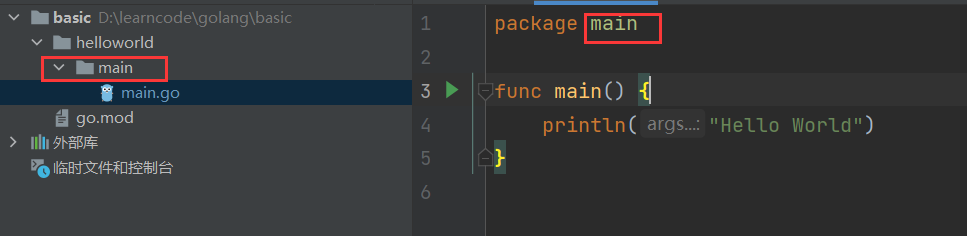
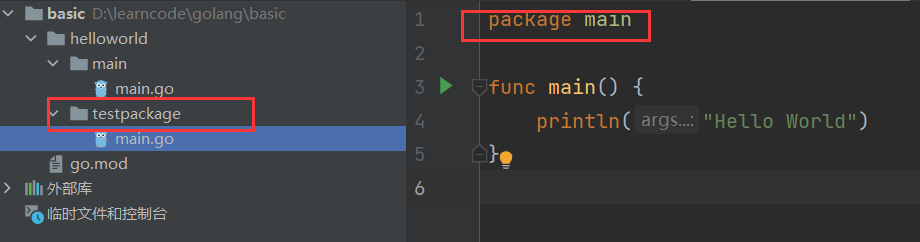
update

diff --git a/docs/golang/05 可访问性.md b/docs/golang/05 可访问性.md
@@ -1,0 +1,59 @@
+---
+sidebarDepth: 3
+sidebar: auto
+prev:
+  text: Back To 目录
+  link: /golang/
+typora-root-url: ..\.vuepress\public
+---
+
+
+
+## 全局变量
+
+::: tip
+
+首字符是否大写控制了访问性：大写包 外可访问；
+
+:::
+
+```go
+// test/main.go
+package main
+
+import varia "basic/variables"
+
+func main() {
+	println(varia.External)
+	// 不可访问
+	//println(varia.internal)
+}
+
+```
+
+![image-20220615030704902](/images/golang/image-20220615030704902.png)
+
+
+
+## 全局方法
+
+
+
+```go
+package main
+
+import "basic/variables"
+
+func main() {
+	variables.Func2()
+}
+```
+
+![image-20220615031735768](/images/golang/image-20220615031735768.png)
+
+```go
+var Func2 = func() {
+	println("func2")
+}
+```
+

diff --git a/docs/golang/04 字符串.md b/docs/golang/04 字符串.md
@@ -1,0 +1,38 @@
+---
+sidebarDepth: 3
+sidebar: auto
+prev:
+  text: Back To 目录
+  link: /golang/
+typora-root-url: ..\.vuepress\public
+---
+
+
+
+## 字符串长度
+
+::: tip
+
+遇到计算字符个数，比如说用户名字多长，博客多长这种字符个数,用 **utf8.RuneCountInString**
+
+:::
+
+
+
+```go
+package main
+
+import "unicode/utf8"
+
+func main() {
+	// 反引号
+	println(`First Line
+			Another line.`)
+
+	println(len("静默"))                       // 6
+	println(utf8.RuneCountInString("静默"))    // 2
+	println(utf8.RuneCountInString("Hi 静默")) // 5
+}
+
+```
+

diff --git a/docs/golang/02 Hello World.md b/docs/golang/02 Hello World.md
@@ -17,7 +17,13 @@ func main() {
 }
 ```
 
-![image-20220615022542611](/images/golang/image-20220615022542611.png)
+::: tip
+
+可以和文件夹不同名字
+
+:::
+
+![image-20220615023031706](/images/golang/image-20220615022542611.png)
 
 ## How to run code
 
